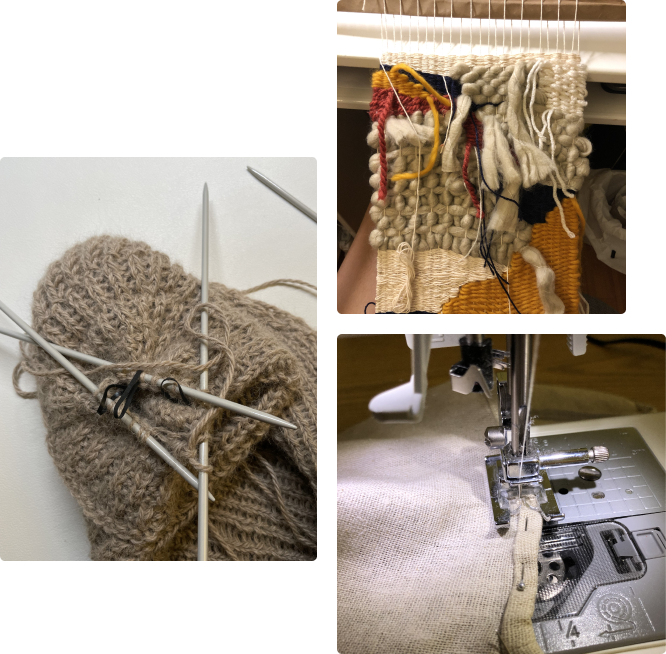
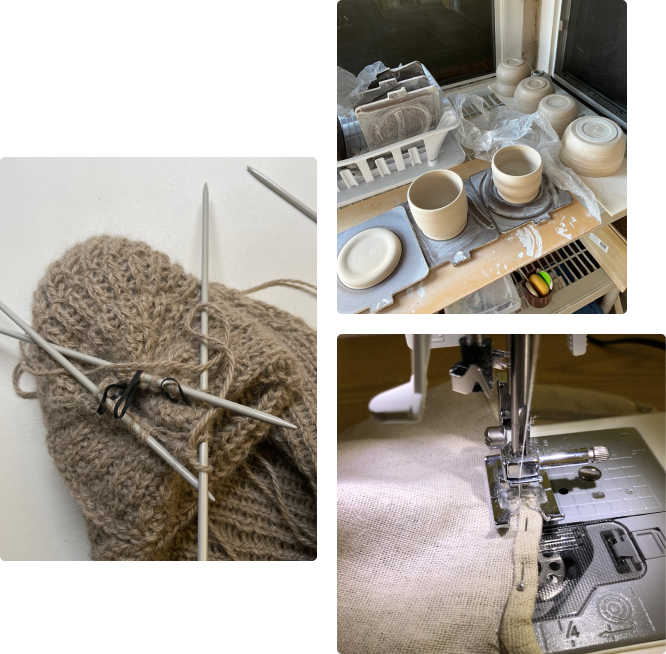
updated summary

Changed region(s): [[0.4805, 0.0, 0.961, 0.4893]]

diff --git a/index.html b/index.html
@@ -15,9 +15,9 @@
   <meta charset="utf-8">
   <meta name="viewport" content="width=device-width, initial-scale=1, shrink-to-fit=no">
   <meta name="description" content="Product Designer">
-  <meta name="author" content="Hannah Pham">
+  <meta name="author" content="">
   <meta name="keywords" content="">
-  <!-- <link href="https://www.hannahpham.co" rel="canonical"> -->
+  <link href="https://www.hannahpham.co" rel="canonical">
 
   <title>Hannah Pham</title>
 
@@ -83,7 +83,7 @@
       </div>
 
       <div id="hero-img-pd" class="hero-img col-sm-5 col align-self-center text-center">
-        <img src="images/home/baby.png">
+        <img src="images/home/baby.JPG">
       </div>
 
       <div id="hero-img-ja" class="hero-img col-sm-5 col align-self-center text-center">
@@ -122,26 +122,19 @@
         <div class="row pb-3">
           <div class="aboutContent">
             <h3>Currently</h3>
-            <p>_ <a href="https://www.everlaw.com/" target="_blank">Simplifying complex ediscovery workflows</a> for law
-              firms and government agencies<br />
-              _ Knitting garments for cold California winters <span id="aboutFunkyOne"
+            <p>_ <a href="https://www.everlaw.com/" target="_blank">Simplifying complex litigation workflows</a> with intuitive design<br />
+              _ Throwing in my backyard <span id="aboutFunkyOne"
                 class="about-funky"><u>*</u></span><br />
-              _ Developing mild tinnitus from attending live music events <span id="aboutFunkyTwo"
+              _ Developing mild tinnitus from attending concerts <span id="aboutFunkyTwo"
                 class="about-funky"><u>**</u></span><br />
-              _ Sleeping at least 7 hours a night <span id="aboutFunkyThree" class="about-funky"><u>***</u></span>
-            </p>
+                          </p>
 
             <span class="d-flex">
               <span class="about-note-container">
-                <p id="aboutFunkyNoteOne" class="about-note"><small>* Cold is subjective (and anything below
-                    53&#176;F)</small></p>
+                <p id="aboutFunkyNoteOne" class="about-note"><small>* Clay, not hands</small></p>
               </span>
               <span class="about-note-container">
                 <p id="aboutFunkyNoteTwo" class="about-note"><small>** Earplugs are now a necessity</small></p>
-              </span>
-              <span class="about-note-container">
-                <p id="aboutFunkyNoteThree" class="about-note"><small>*** Sometimes with the help of melatonin</small>
-                </p>
               </span>
               <div>
               </div>
@@ -156,7 +149,7 @@
 
   <!-- Footer -->
   <footer class="text-center pt-3 pb-1">
-    <p><small>Last updated Feb 2022 / <a href="https://www.linkedin.com/in/hannahhp" target="_blank">Come say hiii!</a>
+    <p><small>Last updated Aug 2022 / <a href="https://www.linkedin.com/in/hannahhp" target="_blank">Come say hiii!</a>
         &#9786;</small></p>
   </footer>
 

diff --git a/jquery/home.js b/jquery/home.js
@@ -115,14 +115,6 @@ $(document).ready(function () {
         $aboutFunkyNoteTwo.animate({ opacity: 0 }, 350);
     });
 
-    $aboutFunkyThree.mouseenter(function () {
-        $aboutFunkyNoteThree.animate({ opacity: 1 }, 350);
-    });
-
-    $aboutFunkyThree.mouseleave(function () {
-        $aboutFunkyNoteThree.animate({ opacity: 0 }, 350);
-    });
-
 
 
     // Add smooth scrolling to navigation

diff --git a/projects/valoursf.html b/projects/valoursf.html
@@ -19,7 +19,7 @@
     <meta name="keywords" content="">
     <meta name="robots" content="noindex">
 
-    <link href="https://www.hannahpham.co/projects/valoursf" rel="canonical" />
+    <link href="https://www.hannahpham.co/projects/valour" rel="canonical" />
     
     <title>Valour SF – Hannah Pham</title>
 
